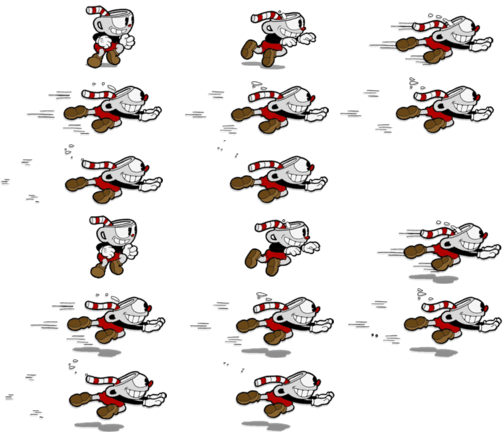
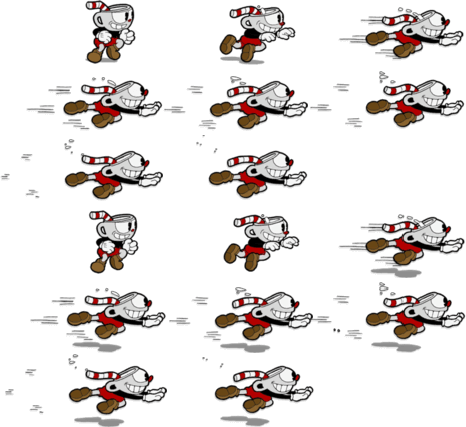
add Dash system

diff --git a/src/Modules/player.js b/src/Modules/player.js
@@ -4,69 +4,17 @@ import { Timer } from "./timer.js";
 
 const HALF_ANALOGIC = 64;
 const WALK_SPEED = 3.5;
+const DASH_SPEED = 11;
 
 const PLAYER_ANIMATIONS = [
-  {
-    name: "IDLE",
-    spritesheetPath: "Player/sheet1.png",
-    jumpers: [{ imagesLength: 5, imageOffsetX: 0, imageOffsetY: 412, widthPerImage: 54, heightPerImage: 82}],
-    reverse: true
-  },
-  {
-    name: "RUN",
-    spritesheetPath: "Player/sheet3.png",
-    jumpers: [
-      { imagesLength: 7, imageOffsetX: 0, imageOffsetY: 0, widthPerImage: 70, heightPerImage: 88, offsetX: -5, offsetY: -3},
-      { imagesLength: 7, imageOffsetX: 0, imageOffsetY: 88, widthPerImage: 70, heightPerImage: 88, offsetX: -5, offsetY: -3},
-      { imagesLength: 2, imageOffsetX: 0, imageOffsetY: 176, widthPerImage: 70, heightPerImage: 88, offsetX: -5, offsetY: -3},
-    ],
-    reverse: false
-  },
-  {
-    name: "RUN_SHOOT_STRAIGHT",
-    spritesheetPath: "Player/sheet11.png",
-    jumpers: [
-      { imagesLength: 6, imageOffsetX: 0, imageOffsetY: 0, widthPerImage: 76, heightPerImage: 88, offsetX: -5},
-      { imagesLength: 6, imageOffsetX: 0, imageOffsetY: 88, widthPerImage: 76, heightPerImage: 88, offsetX: -5},
-      { imagesLength: 4, imageOffsetX: 0, imageOffsetY: 176, widthPerImage: 76, heightPerImage: 88, offsetX: -5},
-    ],
-    reverse: false
-  },
-  {
-    name: "RUN_SHOOT_DIAGONAL_UP",
-    spritesheetPath: "Player/sheet4.png",
-    jumpers: [
-      { imagesLength: 6, imageOffsetX: 0, imageOffsetY: 0, widthPerImage: 76, heightPerImage: 88},
-      { imagesLength: 6, imageOffsetX: 0, imageOffsetY: 88, widthPerImage: 76, heightPerImage: 88},
-      { imagesLength: 2, imageOffsetX: 0, imageOffsetY: 176, widthPerImage: 76, heightPerImage: 88},
-    ],
-    reverse: false
-  },
-  {
-    name: "DUCK",
-    spritesheetPath: "Player/sheet12.png",
-    jumpers: [
-      { imagesLength: 5, imageOffsetX: 0, imageOffsetY: 128, widthPerImage:86, heightPerImage: 64, offsetX: -6, offsetY: 9},
-    ],
-    reverse: true
-  },
-  {
-    name: "DUCK_TURN",
-    spritesheetPath: "Player/sheet12.png",
-    jumpers: [
-      { imagesLength: 1, imageOffsetX: 0, imageOffsetY: 192, widthPerImage:86, heightPerImage: 64, offsetX: -6, offsetY: 9},
-    ],
-    reverse: false
-  },
-  {
-    name: "DUCKING",
-    spritesheetPath: "Player/sheet12.png",
-    jumpers: [
-      { imagesLength: 5, imageOffsetX: 0, imageOffsetY: 0, widthPerImage:86, heightPerImage: 64, offsetX: -6, offsetY: 9},
-      { imagesLength: 2, imageOffsetX: 0, imageOffsetY: 64, widthPerImage:86, heightPerImage: 64, offsetX: -6, offsetY: 9},
-    ],
-    reverse: false
-  },
+  {name: "IDLE", spritesheetPath: "Player/sheet1.png", jumpers: [{ imagesLength: 5, imageOffsetX: 0, imageOffsetY: 412, widthPerImage: 54, heightPerImage: 82}], reverse: true},
+  {name: "RUN", spritesheetPath: "Player/sheet3.png", jumpers: [{ imagesLength: 7, imageOffsetX: 0, imageOffsetY: 0, widthPerImage: 70, heightPerImage: 88, offsetX: -5, offsetY: -3},{ imagesLength: 7, imageOffsetX: 0, imageOffsetY: 88, widthPerImage: 70, heightPerImage: 88, offsetX: -5, offsetY: -3},{ imagesLength: 2, imageOffsetX: 0, imageOffsetY: 176, widthPerImage: 70, heightPerImage: 88, offsetX: -5, offsetY: -3},], reverse: false},
+  {name: "RUN_SHOOT_STRAIGHT", spritesheetPath: "Player/sheet11.png",jumpers: [{ imagesLength: 6, imageOffsetX: 0, imageOffsetY: 0, widthPerImage: 76, heightPerImage: 88, offsetX: -5},{ imagesLength: 6, imageOffsetX: 0, imageOffsetY: 88, widthPerImage: 76, heightPerImage: 88, offsetX: -5},{ imagesLength: 4, imageOffsetX: 0, imageOffsetY: 176, widthPerImage: 76, heightPerImage: 88, offsetX: -5},],reverse: false},
+  {name: "RUN_SHOOT_DIAGONAL_UP", spritesheetPath: "Player/sheet4.png",jumpers: [{ imagesLength: 6, imageOffsetX: 0, imageOffsetY: 0, widthPerImage: 76, heightPerImage: 88},{ imagesLength: 6, imageOffsetX: 0, imageOffsetY: 88, widthPerImage: 76, heightPerImage: 88},{ imagesLength: 2, imageOffsetX: 0, imageOffsetY: 176, widthPerImage: 76, heightPerImage: 88},],reverse: false},
+  {name: "DUCK", spritesheetPath: "Player/sheet12.png",jumpers: [{ imagesLength: 5, imageOffsetX: 0, imageOffsetY: 128, widthPerImage:86, heightPerImage: 64, offsetX: -6, offsetY: 9},],reverse: true},
+  {name: "DUCK_TURN", spritesheetPath: "Player/sheet12.png",jumpers: [{ imagesLength: 1, imageOffsetX: 0, imageOffsetY: 192, widthPerImage:86, heightPerImage: 64, offsetX: -6, offsetY: 9},],reverse: false},
+  {name: "DUCKING", spritesheetPath: "Player/sheet12.png",jumpers: [{ imagesLength: 5, imageOffsetX: 0, imageOffsetY: 0, widthPerImage:86, heightPerImage: 64, offsetX: -6, offsetY: 9},{ imagesLength: 2, imageOffsetX: 0, imageOffsetY: 64, widthPerImage:86, heightPerImage: 64, offsetX: -6, offsetY: 9},],reverse: false},
+  {name: "DASH_GROUND", spritesheetPath: "Player/sheet5.png", jumpers: [{ imagesLength: 3, imageOffsetX: 0, imageOffsetY: 210, widthPerImage: 168, heightPerImage: 74,offsetX: -20},{ imagesLength: 3, imageOffsetX: 0, imageOffsetY: 280, widthPerImage: 168, heightPerImage: 74,offsetX: -20},{ imagesLength: 2, imageOffsetX: 0, imageOffsetY: 350, widthPerImage: 168, heightPerImage: 74,offsetX: -20}], reverse: false}
 ]
 
 export class Player {
@@ -91,34 +39,36 @@ export class StandingPlayer extends Player {
     this.isJumping = false;
     this.isShooting = false;
 
-    this.duckTurning = false; // when you are in duck and turn the direction, because will have a turn animation
-    this.startingDucking = false; // if you are start ducking you will still have a different animation
+    this.dashTimer = new Timer();
+    this.dashReloadTime = new Timer();
+
+    this.duckTurning = false;
+    this.startingDucking = false;
 
     this.duckTurningTimer = new Timer();
 
     this.duckTurningTimer.pause();
 
-    this.entity.setAnimations(["IDLE", "RUN", "RUN_SHOOT_STRAIGHT", "RUN_SHOOT_DIAGONAL_UP", "DUCK", "DUCK_TURN", "DUCKING"]);
+    this.entity.setAnimations(["IDLE", "RUN", "RUN_SHOOT_STRAIGHT", "RUN_SHOOT_DIAGONAL_UP", "DASH_GROUND", "DUCK", "DUCK_TURN", "DUCKING"]);
 
     os.chdir("host:/src");
 
-    PLAYER_ANIMATIONS.forEach(animation => {
-
-      this.entity.index(
-        this.entity[animation.name],
-        
-        new Sprite(
-          animation.spritesheetPath,
-          x, y,
-          animation.jumpers,
-          animation.reverse
-        )
-      )
-    })
+    PLAYER_ANIMATIONS.forEach(animation => this.entity.index(this.entity[animation.name], new Sprite(animation.spritesheetPath, x, y, animation.jumpers, animation.reverse)));
   }
 
   idle(PAD) {
     this.entity.currentAnimation = this.entity.IDLE;
+  }
+
+  dash(PAD) {
+
+    if (this.dashTimer.get() > 350) {
+      this.isDashing = false;
+      return
+    }
+
+    this.moveX = this.flipX ? -DASH_SPEED : DASH_SPEED;
+    this.entity.currentAnimation = this.entity.DASH_GROUND;
   }
 
   duck(PAD) {
@@ -136,7 +86,7 @@ export class StandingPlayer extends Player {
       newFlipX = PAD.lx < -HALF_ANALOGIC ? true : false;
     }
 
-    if (this.flipX != newFlipX) { // if the player change direction, it will execute the turning animation
+    if (this.flipX != newFlipX) {
       this.flipX = newFlipX;
       this.entity.currentAnimation = this.entity.DUCK_TURN;
       this.duckTurning = true;
@@ -147,7 +97,7 @@ export class StandingPlayer extends Player {
   ducking(PAD) {
     this.entity.currentAnimation = this.entity.DUCKING;
 
-    if (this.entity.isLastFrame()) { // if is the last frame change to ducking animation
+    if (this.entity.isLastFrame()) {
       this.isDucking = true;
       this.startingDucking = false;
     }
@@ -179,10 +129,9 @@ export class StandingPlayer extends Player {
   move(speed, camera) {
     const PAD = Pads.get();
 
-    this.fps = 24; // default fps for most of the animations
+    this.fps = 24;
 
     this.isRunning = false;
-    this.isDashing = false;
     this.isJumping = false;
     this.isShooting = false;
 
@@ -192,37 +141,49 @@ export class StandingPlayer extends Player {
       this.isShooting = true;
     }
 
-    if (PAD.btns & Pads.LEFT || PAD.btns & Pads.RIGHT || PAD.lx < -HALF_ANALOGIC || PAD.lx > HALF_ANALOGIC) {
-      this.isRunning = true;
+    if (PAD.btns & Pads.L1 && !this.isDashing && this.dashReloadTime.get() >= 500) {
+      this.isDashing = true;
+      this.dashTimer.reset();
+      this.dashReloadTime.reset();
     }
 
-    if (PAD.btns & Pads.DOWN || PAD.btns & PAD.ly > HALF_ANALOGIC) {
-      if (!this.startingDucking && !this.isDucking) {
-        this.startingDucking = true;
+    if (this.isDashing) {
+      this.dash(PAD);
+    }
+
+    if (!this.isDashing) {
+      if (PAD.btns & Pads.LEFT || PAD.btns & Pads.RIGHT || PAD.lx < -HALF_ANALOGIC || PAD.lx > HALF_ANALOGIC) {
+        this.isRunning = true;
       }
-    }
-    else {
-      this.startingDucking = false;
-      this.isDucking = false;
-    }
 
-    if (this.startingDucking && !this.isDucking) {
-      this.ducking(PAD);
-    }
-    else if (!this.startingDucking && this.isDucking) {
-      this.duck(PAD);
-    }
-    else if ((PAD.btns & Pads.UP) && this.isRunning && this.isShooting) {
-      this.runShootDiagonalUp(PAD);
-    }
-    else if (this.isRunning && this.isShooting) {
-      this.runShootStraight(PAD);
-    }
-    else if (this.isRunning) {
-      this.run(PAD);
-    }
-    else {
-      this.idle(PAD);
+      if (PAD.btns & Pads.DOWN || PAD.btns & PAD.ly > HALF_ANALOGIC) {
+        if (!this.startingDucking && !this.isDucking) {
+          this.startingDucking = true;
+        }
+      }
+      else {
+        this.startingDucking = false;
+        this.isDucking = false;
+      }
+
+      if (this.startingDucking && !this.isDucking) {
+        this.ducking(PAD);
+      }
+      else if (!this.startingDucking && this.isDucking) {
+        this.duck(PAD);
+      }
+      else if ((PAD.btns & Pads.UP) && this.isRunning && this.isShooting) {
+        this.runShootDiagonalUp(PAD);
+      }
+      else if (this.isRunning && this.isShooting) {
+        this.runShootStraight(PAD);
+      }
+      else if (this.isRunning) {
+        this.run(PAD);
+      }
+      else {
+        this.idle(PAD);
+      }
     }
 
     this.entity.x += this.moveX;
